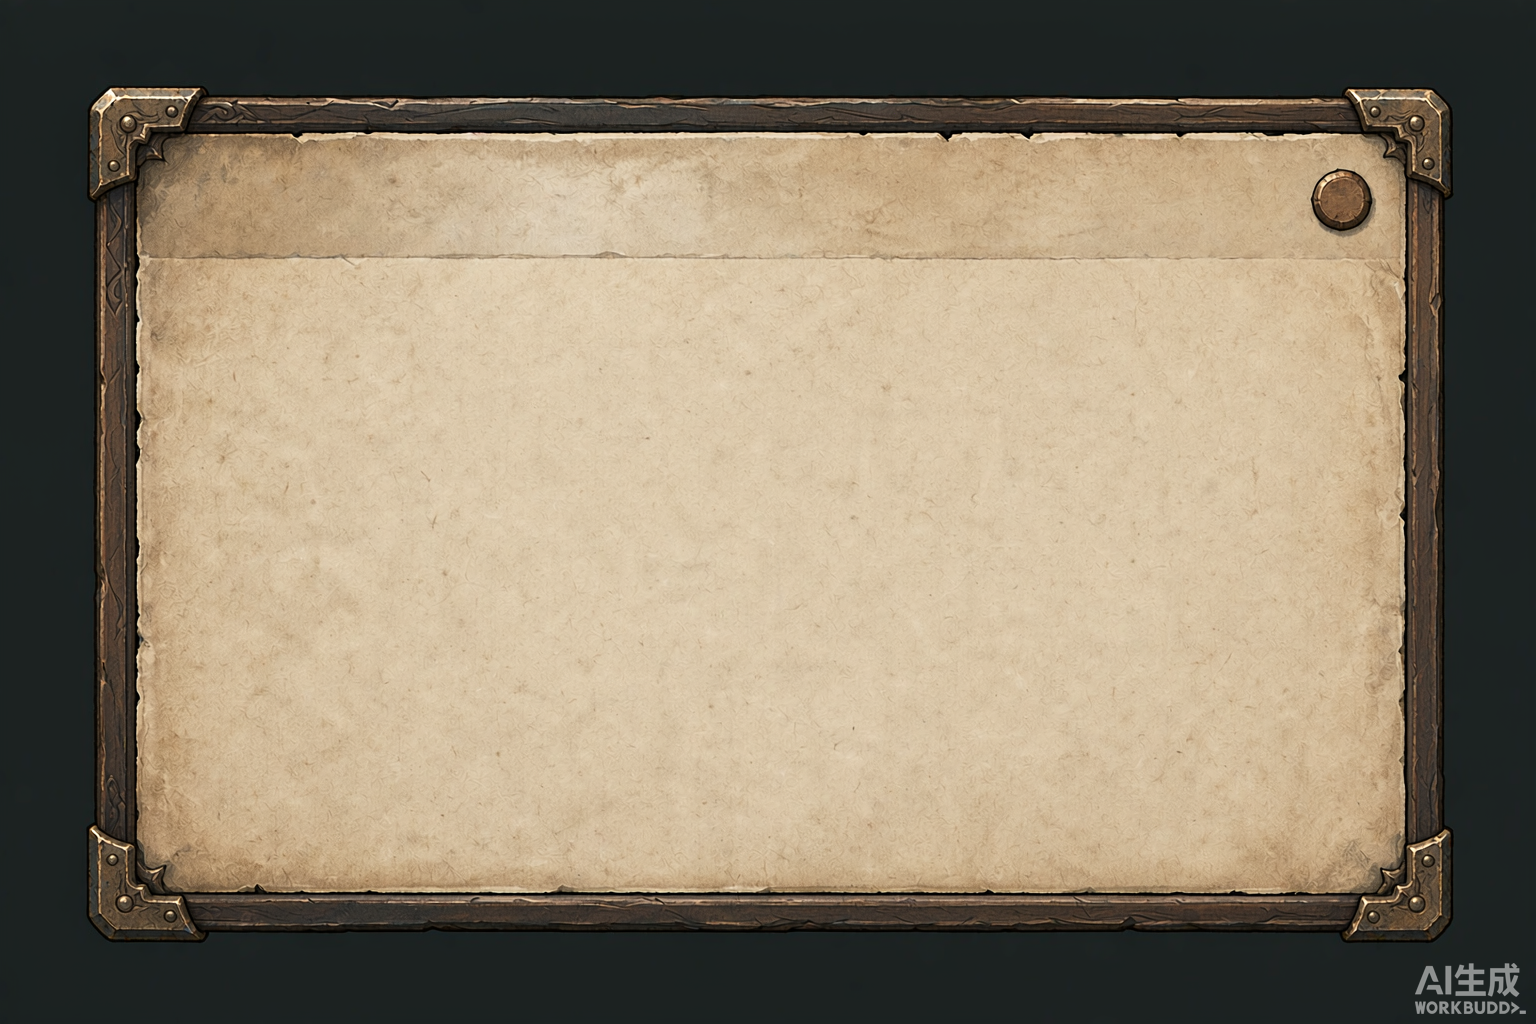
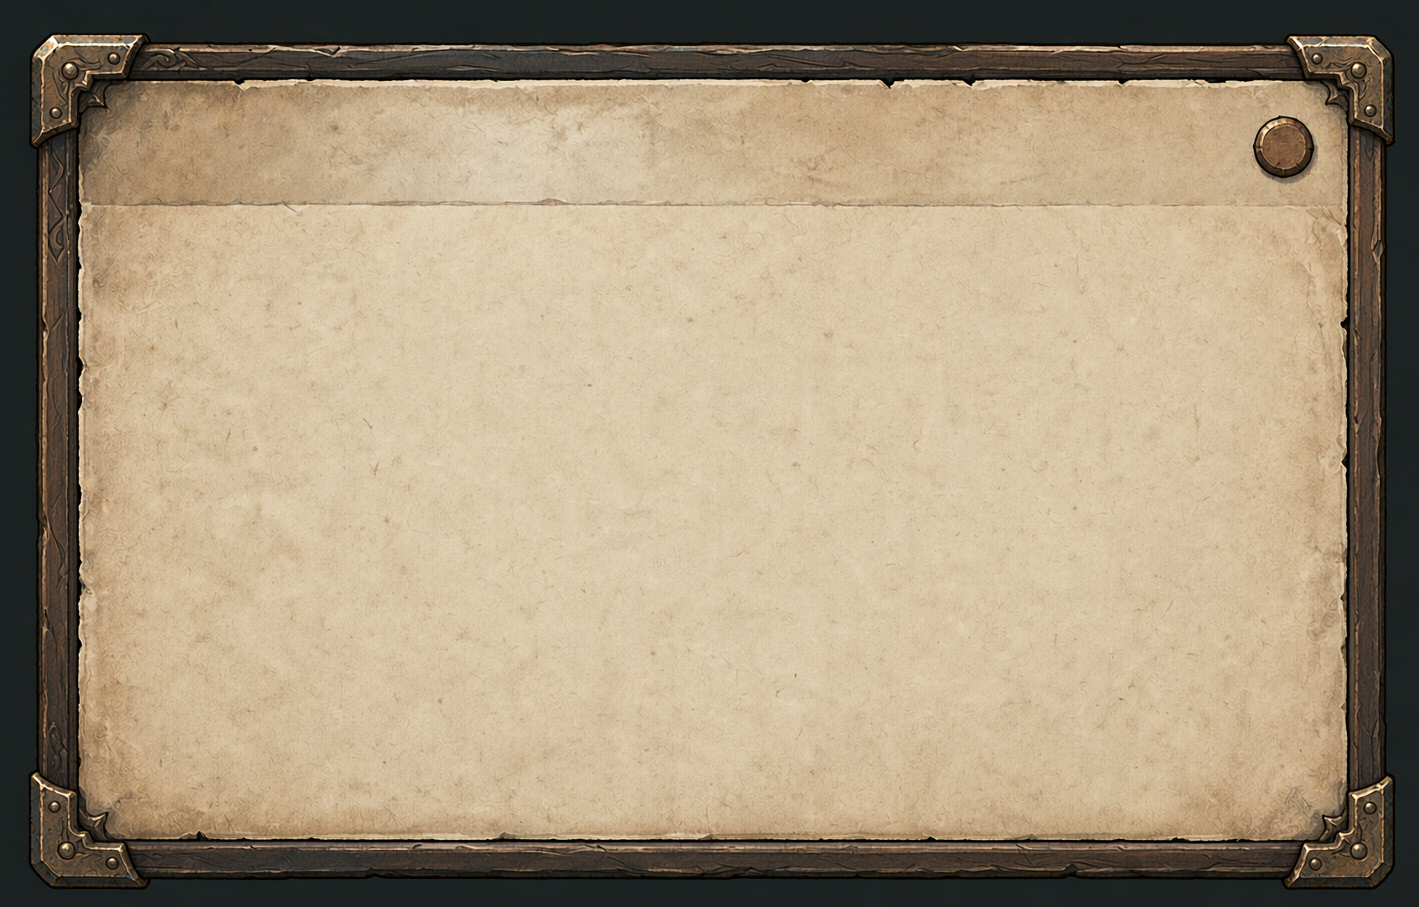
弹窗水印清理（本地）：panel-wide 紧裁去画布黑边与水印（水印在画布边缘非面板内）；政策钮右移对齐按钮组

diff --git a/.workbuddy/memory/2026-10-10.md b/.workbuddy/memory/2026-10-10.md
@@ -526,6 +526,18 @@ AI 铺路 -65% → **脚本玩家**出击变少 → 训练量 106 → 71~79 → 
 地图底图（plate-vivid 等 plate 系列）右下有"AI生成 WORKBUDDY"生成水印（clip 放大后清晰）。
 **修法候选**：换用无水印的 plate 变体（assets/map/ 有 7 张）/ 沙盘右下角放装饰件遮盖 / 底图重生成。
 
+## ✅ 程序纯生成视觉清理（风格一致性收尾）
+
+**用户原则**：素材化的部件旁不能留程序纯生成的旧装饰（风格打架）。
+
+**清理清单**：
+- **结算卡**：蓝渐变 → panel-wide 羊皮纸木框 + btn-stone 重开钮 + 衬线标题（大件、显著）
+- **弃牌区**：红虚线黑底 → 木色虚线暖底
+- **手牌空槽**：card-frame-p 旧框图 → farm-v5 新卡图淡化版
+- **保留**：hint/tile-actions 深色浮层（可读性优先的通用做法，非风格残留）；ck-badge 金色数字角标（参考板同款胶囊）
+
+**状态**：全部本地 commit（未 push）· 五层全绿。
+
 ## ✅ 第一批收尾：8 张专属插画卡面 + playwright 截图管线
 
 **批量完成**：7 张场景插画（工坊/能源站/兵营/箭塔/道路/效果旋涡/升级铁砧，i2i 锚定参考板 + 卡牌构图提示词，逐张自查全合格）→ `_compose_card.js` SCENES 8 条批量合成（farm+7）→ **CSS 按 `data-key` 映射**（建筑 5 张专属；道路 3 key/效果 7 key 共用类型图；upgrade 用政策图）。
